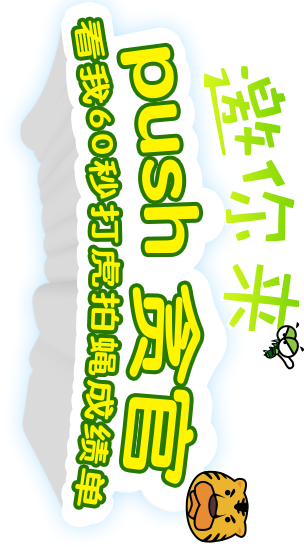
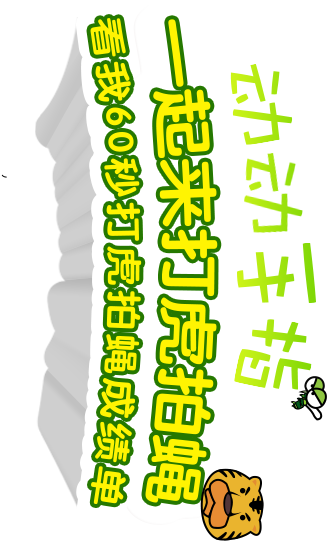
a

diff --git a/anti-corruption/src/assets/js/index.js b/anti-corruption/src/assets/js/index.js
@@ -605,10 +605,11 @@
              game.load.image('clip-content', './src/assets/images/clip-content.png');
              game.load.image('bg', './src/assets/images/bg.jpg');
              game.load.spritesheet('person', './src/assets/images/person.png', 203, 152);
+             game.load.spritesheet('person1', './src/assets/images/person1.png', 203, 152);
              game.load.image('energy', './src/assets/images/energy.png');
-             game.load.spritesheet('tigger', './src/assets/images/tigger.png', 135, 200)
+             game.load.spritesheet('tigger', './src/assets/images/tigger.png', 135, 200);
              game.load.image('tigger-die', './src/assets/images/tigger-die.png');
-             game.load.image('person-die', './src/assets/images/person-die.png');
+             //game.load.image('person-die', './src/assets/images/person-die.png');
              game.load.spritesheet('fly', './src/assets/images/fly.png', 81, 82)
              game.load.spritesheet('fly1', './src/assets/images/fly1.png', 81, 82)
              game.load.image('fly-die', './src/assets/images/fly-die.png');
@@ -616,7 +617,7 @@
              game.load.image('begin-btn', './src/assets/images/begin-btn.png');
              game.load.image('blood', './src/assets/images/blood.png');
              game.load.image('person-top', './src/assets/images/person-top.png');
-             game.load.spritesheet('over-sprite', './src/assets/images/over.png', 116, 376);
+             //game.load.spritesheet('over-sprite', './src/assets/images/over.png', 116, 376);
              game.load.spritesheet('wind', './src/assets/images/wind.png', 123, 105);
              game.load.image('result1', './src/assets/images/result1.png');
              game.load.image('result2', './src/assets/images/result2.png');
@@ -759,7 +760,7 @@
              });
              beginBtn.scale.set(.5, .5);
              beginBtn.anchor.setTo(.5, .5);
-             //beginBtn.exists = false;
+             beginBtn.exists = false;
              this.beginBtn = beginBtn;
 
              var startX = 62;
@@ -955,6 +956,7 @@
          function gameState() {
              this.init = function() {}
              var sprite,
+                 sprite1,
                  animation,
                  bg,
                  energy,
@@ -1364,13 +1366,13 @@
                          }
                      })
 
-                     sprite.y++;
-                     if (sprite.y > defaultY) {
-                         sprite.y = 0;
-                         sprite.exists && self.fillHeroList();
+                     sprite1.y++;
+                     if (sprite1.y > defaultY) {
+                         sprite1.y = 0;
+                         sprite1.exists && self.fillHeroList();
 
-                         sprite.kill();
-                         sprite.exists = false;
+                         sprite1.kill();
+                         sprite1.exists = false;
 
                          //self.game.paused = true;
                      } else {
@@ -1519,18 +1521,27 @@
                          if (self.currentBlood < 0) {
                              self.currentBlood = 0;
 
-                             overSprite = game.add.sprite(startX, 70, 'over-sprite');
-                             self.overSprite = overSprite;
-                             var ani = overSprite.animations.add('run', [0, 1, 2, 3]);
+                             /* overSprite = game.add.sprite(startX, 70, 'over-sprite');
+                              self.overSprite = overSprite;
+                              var ani = overSprite.animations.add('run', [0, 1, 2, 3]);
 
-                             overSprite.scale.set(.4, .4);
-                             overSprite.exists = false;
+                              overSprite.scale.set(.4, .4);
+                              overSprite.exists = false;*/
 
+                             //sprite.exists = false;
+
+
+                             self.timerover = true;
+
+                             sprite1 = game.add.sprite(startX, 100, 'person1');
+                             sprite1.scale.set(.3, .3)
                              sprite.exists = false;
+                             animation = sprite1.animations.add('run', [0, 1, 2, 3, 4, 5, 6, 7, 8, 9, 10]);
+                             sprite1.animations.play('run', 25, true);
 
-                             var personDie = game.add.image(startX, 100, 'person-die');
+                             /*   var personDie = game.add.image(startX, 100, 'person-die');
                              self.personDie = personDie;
-                             personDie.scale.set(.4, .4);
+                             personDie.scale.set(.4, .4);*/
                              jumper.exists = false;
                              jumper.kill();
 
@@ -1539,11 +1550,11 @@
                                dieTigger.scale.set(.3, .3);*/
                              self.gameisover = true;
                              setTimeout(function() {
-                                 overSprite.exists = true;
-                                 self.fillHeroList(overSprite);
+                                 // overSprite.exists = true;
+                                 self.fillHeroList();
                                  tiggerSprite.kill();
                                  //flySprite.kill();
-                                 personDie.kill();
+                                 //personDie.kill();
                                  dieTigger.kill();
                              }, 1000)
                              game.world.setChildIndex(tiggerSprite, 10);
@@ -1587,18 +1598,28 @@
                              if (self.currentBlood < 0) {
                                  self.currentBlood = 0;
 
-                                 overSprite = game.add.sprite(startX, 70, 'over-sprite');
-                                 self.overSprite = overSprite;
-                                 var ani = overSprite.animations.add('run', [0, 1, 2, 3]);
+                                 /* overSprite = game.add.sprite(startX, 70, 'over-sprite');
+                                  self.overSprite = overSprite;
+                                  var ani = overSprite.animations.add('run', [0, 1, 2, 3]);
 
-                                 overSprite.scale.set(.4, .4);
-                                 overSprite.exists = false;
+                                  overSprite.scale.set(.4, .4);
+                                  overSprite.exists = false;*/
 
-                                 sprite.exists = false;
+                                 //sprite.exists = false;
+                                 self.timerover = true;
 
-                                 var personDie = game.add.image(startX, 100, 'person-die');
+                                 /*  var personDie = game.add.image(startX, 100, 'person-die');
                                  self.personDie = personDie;
-                                 personDie.scale.set(.4, .4);
+                                 personDie.scale.set(.4, .4);*/
+
+
+
+                                 sprite1 = game.add.sprite(startX, 100, 'person1');
+                                 sprite1.scale.set(.3, .3)
+                                 sprite.exists = false;
+                                 animation = sprite1.animations.add('run', [0, 1, 2, 3, 4, 5, 6, 7, 8, 9, 10]);
+                                 sprite1.animations.play('run', 25, true);
+
                                  jumper.exists = false;
                                  jumper.kill();
 
@@ -1607,11 +1628,11 @@
                                    dieTigger.scale.set(.3, .3);*/
                                  self.gameisover = true;
                                  setTimeout(function() {
-                                     overSprite.exists = true;
-                                     self.fillHeroList(overSprite);
+                                     // overSprite.exists = true;
+                                     self.fillHeroList();
                                      tiggerSprite.kill();
                                      //flySprite.kill();
-                                     personDie.kill();
+                                     //personDie.kill();
                                      dieTigger.kill();
                                  }, 1000)
 
@@ -1701,8 +1722,8 @@
              var index = _this.index();
              switch (index) {
                  case 0:
-                     window.location.href = window.location.href;
-                     window.location.reload();
+                     window.location.href = window.location.href.split('#')[0].split('?')[0] + '?t=' + new Date().getTime();
+                     //window.location.reload();
                      /*game.paused = false;
                      //game.state.start('gameState');
                      self.gameisover = false;

diff --git a/anti-corruption/index.html b/anti-corruption/index.html
@@ -8,7 +8,7 @@
       document.addEventListener('touchmove',function(e){e.preventDefault(),{passive:true}})
     </script>
     <link rel="stylesheet" type="text/css" href="./src/components/css/index.css">
-    <title>邀你来PUSH贪官</title>
+    <title>动动手指，一起来打虎拍蝇</title>
     <style>
       body{
         background: url(./src/assets/images/background.jpg) no-repeat left center;

diff --git a/anti-corruption/src/components/css/index.css b/anti-corruption/src/components/css/index.css
@@ -101,7 +101,7 @@ input, textarea {
 .zmiti-btn-groups {
   width: 1rem;
   position: absolute;
-  left: 62px;
+  left: 50px;
   z-index: 102;
   top: 50%;
   -webkit-transform: translate3d(0, -50%, 0);

diff --git a/anti-corruption/src/components/css/index.scss b/anti-corruption/src/components/css/index.scss
@@ -104,7 +104,7 @@ input, textarea {
 .zmiti-btn-groups {
 	width: 1rem;
 	@include pos(a);
-	left: 62px;
+	left: 50px;
 	z-index: 102;
 	top: 50%;
 	@include transform(translate3d(0, -50%, 0));
